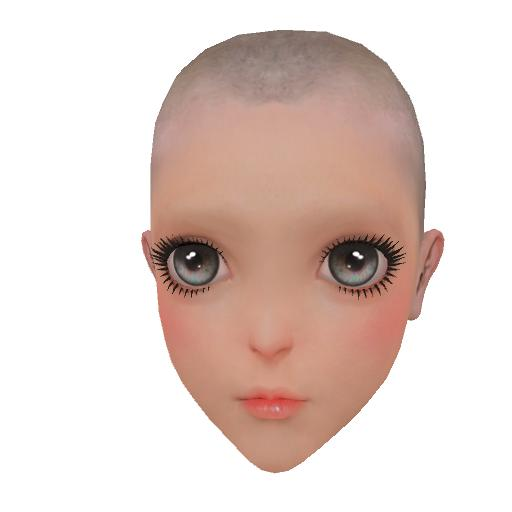
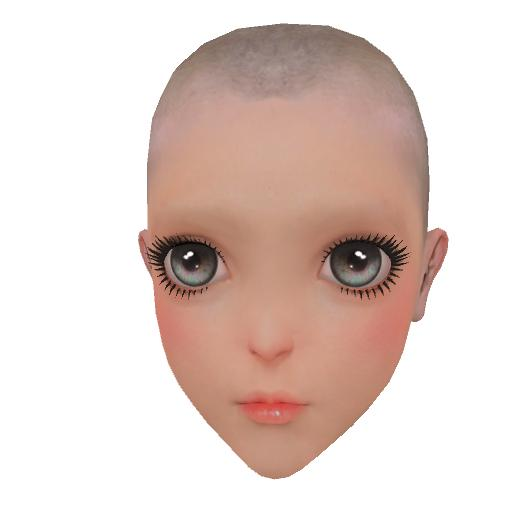
uv unwrap

diff --git a/HeadShowcase/Assets/UVExport/Scripts/HeadSynthesize.cs b/HeadShowcase/Assets/UVExport/Scripts/HeadSynthesize.cs
@@ -1,10 +1,12 @@
 using System.Collections;
 using System.Collections.Generic;
+using System.IO;
 using UnityEditor;
 using UnityEngine;
 
 public class HeadSynthesize : MonoBehaviour
 {
+    public string ExportPath;
     public RenderTexture DepthRT;
     public Material DepthMaterial;
 
@@ -12,6 +14,9 @@ public class HeadSynthesize : MonoBehaviour
     public Material SynthesizeMaterial;
 
     public MeshRenderer HeadMesh;
+
+    public Texture2D StylizedImage;
+
     // Start is called before the first frame update
     void Start()
     {
@@ -33,7 +38,10 @@ public class HeadSynthesize : MonoBehaviour
             SnapshotDepth(cam);
             // now let's do the synthesize
             DoSynthesize(cam);
+            // save the result
+            Save();
             HeadMesh.sharedMaterial = mat_before;
+
             AssetDatabase.Refresh();
         }
     }
@@ -46,10 +54,26 @@ public class HeadSynthesize : MonoBehaviour
 
     private void DoSynthesize( Camera cam )
     {
-        HeadMesh.sharedMaterial = SynthesizeMaterial;
+        Material runtime_mat = GameObject.Instantiate(SynthesizeMaterial);
+        runtime_mat.SetTexture("_StyleImage", StylizedImage);
+        runtime_mat.SetTexture("_DepthImage", DepthRT);
+        HeadMesh.sharedMaterial = runtime_mat;
         cam.targetTexture = SynthesizeRT;
         cam.Render();
+        
 
+    }
+    private void Save()
+    {
+        // read back from render target
+        RenderTexture.active = SynthesizeRT;
+        Texture2D tex = new Texture2D(SynthesizeRT.width, SynthesizeRT.height);
+        tex.ReadPixels(new Rect(0, 0, SynthesizeRT.width, SynthesizeRT.height), 0, 0);
+        RenderTexture.active = null;
+
+        byte[] bytes = tex.EncodeToJPG();
+        File.WriteAllBytes(ExportPath + "/HeadBaseUV.jpg", bytes);
+        GameObject.DestroyImmediate(tex);
     }
 
 }
